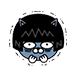
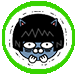
스코어프레임

Changed region(s): [[0.0263, 0.0, 1.0, 0.9737]]

diff --git a/src/main/java/ScoreFrame/CenterPanel.java b/src/main/java/ScoreFrame/CenterPanel.java
@@ -22,7 +22,7 @@ import ScoreFrame.FileIO;
 class CenterPanel extends JPanel{
 	CenterPanel(){
 		setVisible(true);
-		setBackground(Interface.GameColor.lyan);
+		setBackground(Interface.GameColor.muzi);
 		setLayout(null);
 		setPreferredSize(new Dimension(500,420));
 		
@@ -39,10 +39,14 @@ class CenterPanel extends JPanel{
 		JLabel nameLabel[]=new JLabel[num];
 		
 		String name="0";
-		
+	
+			images[0]=new ImageIcon(path+"피치얼굴.png");	
+			images[1]=new ImageIcon(path+"무지얼굴.png");	
+			images[2]=new ImageIcon(path+"라이언얼굴.png");	
+			
 			for(int i=0;i<num;i++){
 			
-			images[i]=new ImageIcon(path+"고양이얼굴.png");	
+			
 			gradeImg[i]=new ImageIcon(path+"등수.png");
 					
 			faceLabel[i]=new JLabel(images[i]);
